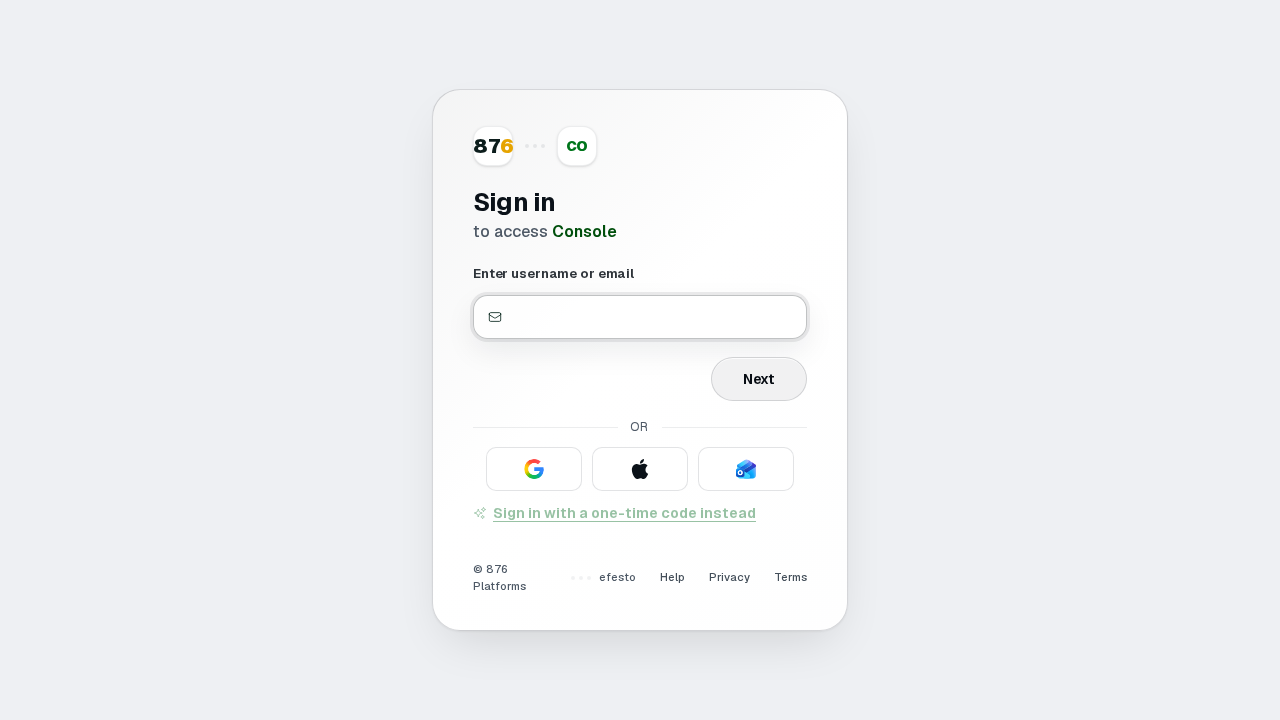
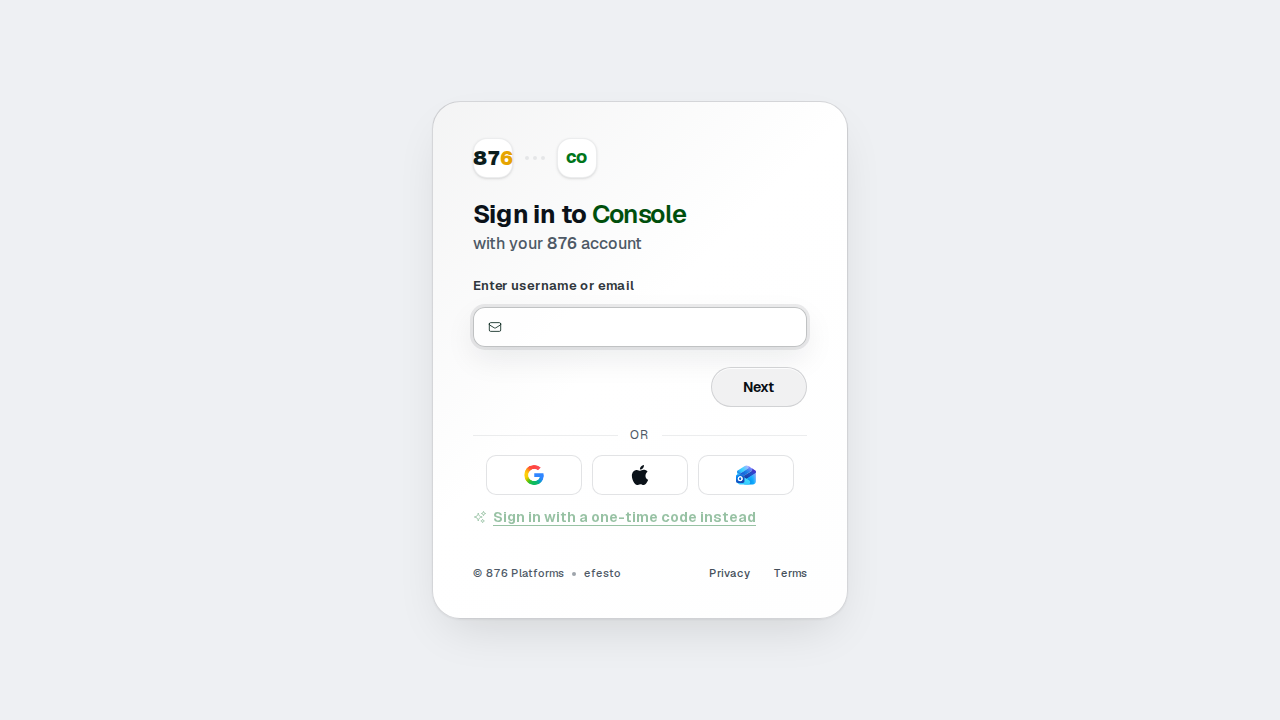
fix(ui-tests): align smoke tests with new auth header copy
Sign-in headers now use "Sign in to {app}" with "with your 876 account"
instead of the old "to access …" subtitle. Update Console and Billing
assertions and Chromium baselines so chromium-smoke matches the live UI.

diff --git a/tests/ui/billing/public.spec.ts b/tests/ui/billing/public.spec.ts
@@ -17,8 +17,10 @@ test.describe('Billing public boundary', () => {
   }) => {
     await page.goto('/no-access')
 
-    await expect(page.getByRole('heading', { name: 'Sign in' })).toBeVisible()
-    await expect(page.getByText('to access 876 Billing')).toBeVisible()
+    await expect(
+      page.getByRole('heading', { name: 'Sign in to 876 Billing' })
+    ).toBeVisible()
+    await expect(page.getByText('with your 876 account')).toBeVisible()
     await expectNoAccessibilityViolations(page)
     if (browserName === 'chromium')
       await expect(page).toHaveScreenshot('billing-sign-in.png', {

diff --git a/tests/ui/console/public.spec.ts b/tests/ui/console/public.spec.ts
@@ -17,8 +17,10 @@ test.describe('Console public boundary', () => {
   }) => {
     await page.goto('/access-denied')
 
-    await expect(page.getByRole('heading', { name: 'Sign in' })).toBeVisible()
-    await expect(page.getByText('to access Console')).toBeVisible()
+    await expect(
+      page.getByRole('heading', { name: 'Sign in to Console' })
+    ).toBeVisible()
+    await expect(page.getByText('with your 876 account')).toBeVisible()
     await expectNoAccessibilityViolations(page)
     if (browserName === 'chromium')
       await expect(page).toHaveScreenshot('console-sign-in.png', {